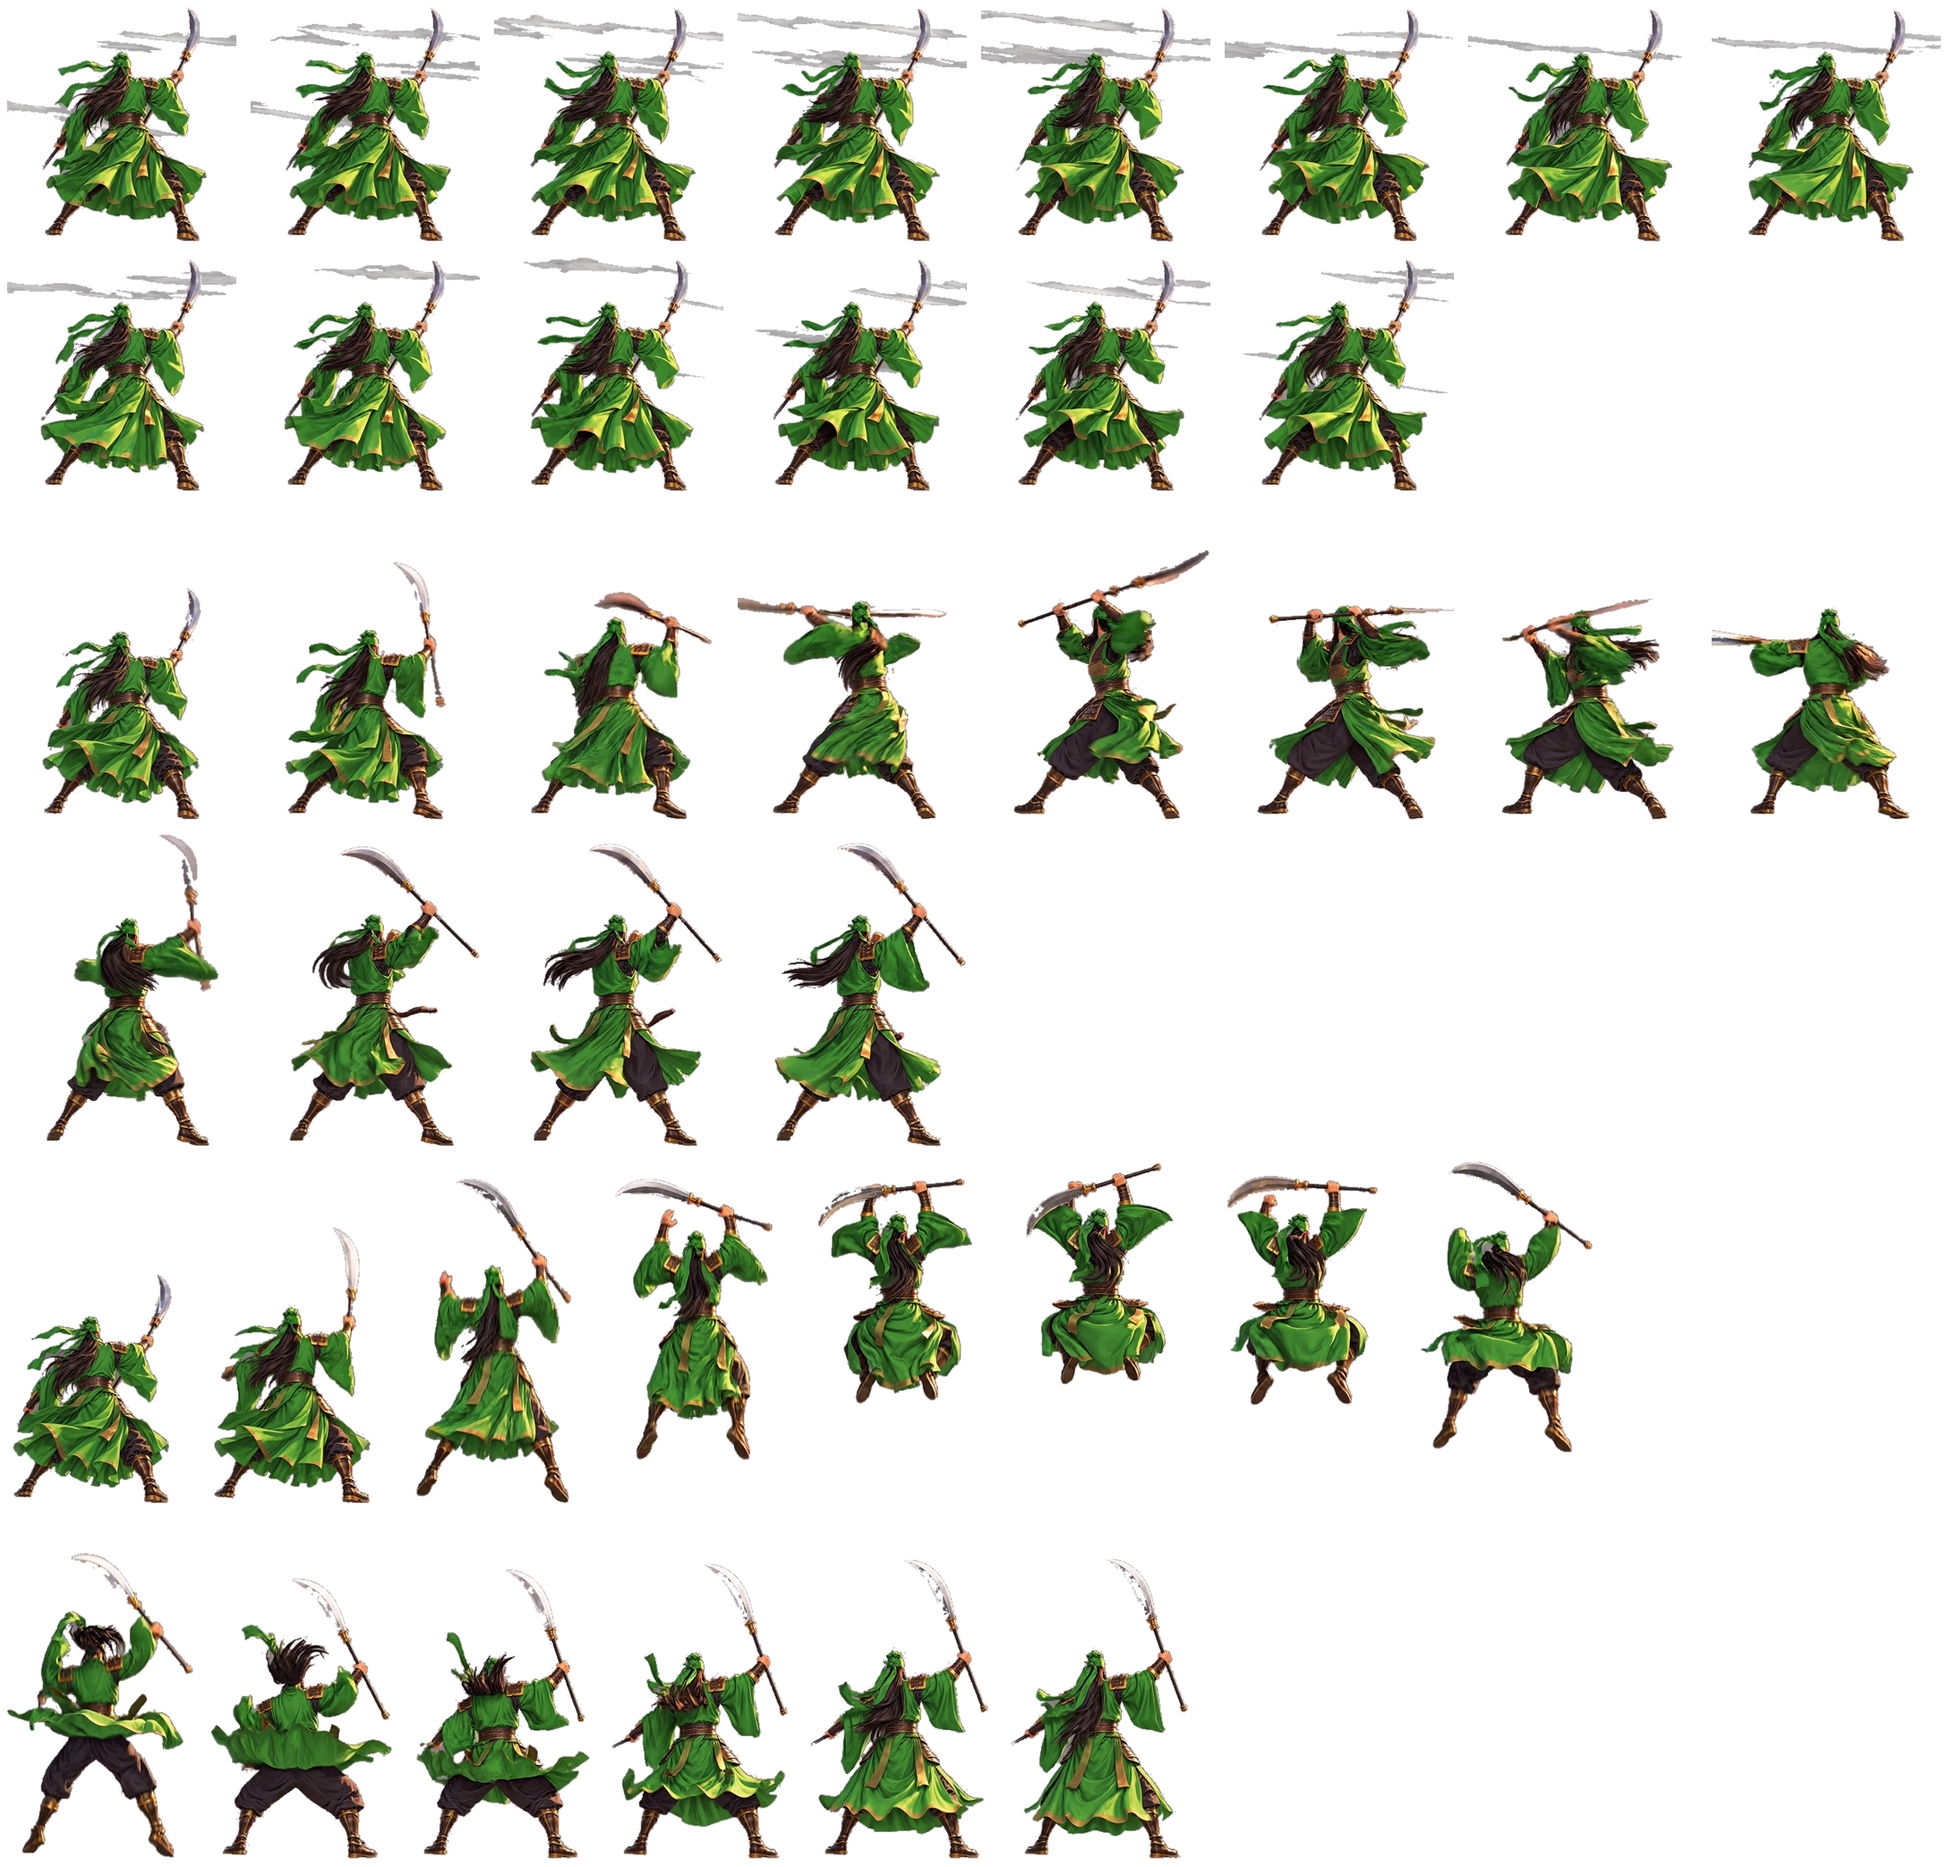
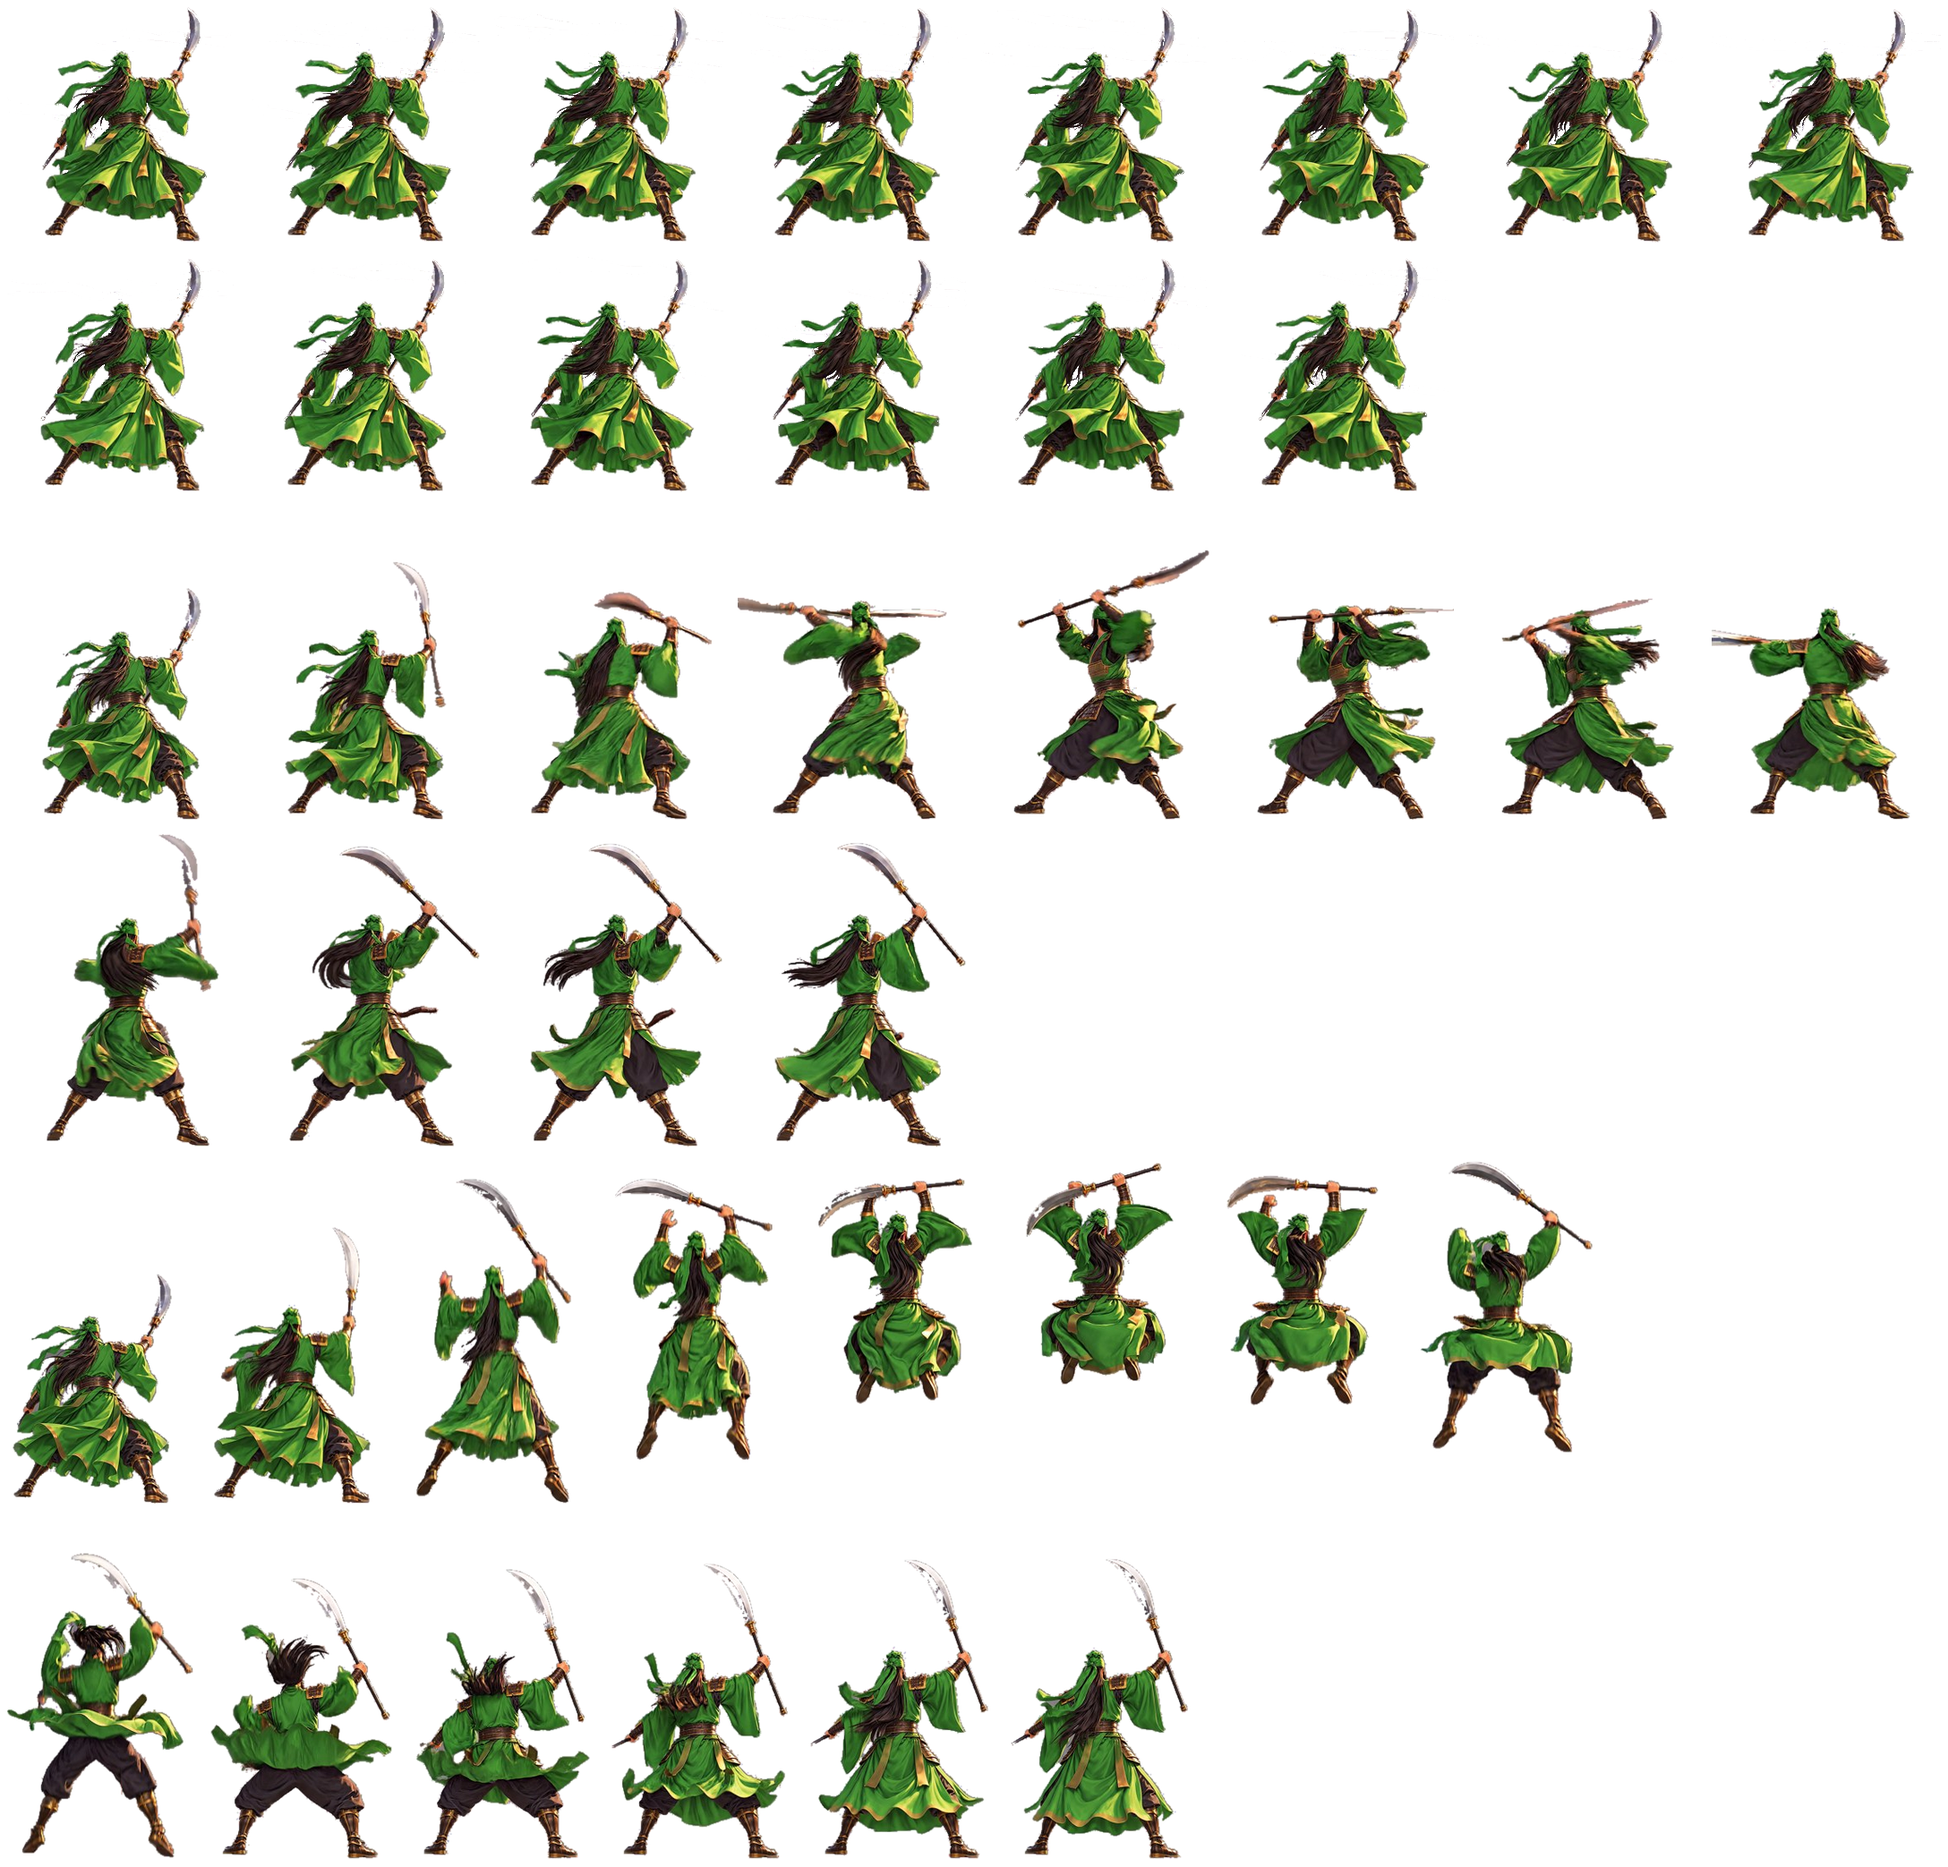
关羽待机帧去灰线改成做进图集，不再开局现画小画布（手机上可能画成空白让关羽看不见）

diff --git a/原型/守关.html b/原型/守关.html
@@ -2747,30 +2747,6 @@ const TINT = { gong: 'hue-rotate(170deg) saturate(1.4)', xiliang: 'hue-rotate(-4
   huaxiong: 'hue-rotate(-40deg) saturate(1.4) brightness(.8)', lvbu: 'hue-rotate(250deg) saturate(1.6) brightness(1.05)', huzhen: 'hue-rotate(-35deg) brightness(.75)', lijue: 'hue-rotate(160deg) saturate(.8) brightness(.8)',
   /* 第二章：曹军蓝黑、袁术军金黄 */ cao: 'hue-rotate(185deg) saturate(.9) brightness(.85)', nu: 'hue-rotate(200deg) saturate(.7) brightness(.9)', hubao: 'grayscale(.7) brightness(.7) contrast(1.2)', huainan: 'hue-rotate(10deg) saturate(1.5) brightness(1.08)',
   xhd: 'hue-rotate(40deg) saturate(.9) brightness(.85)', dianwei: 'grayscale(.6) brightness(.72) contrast(1.15)', yuanj: 'hue-rotate(15deg) saturate(1.6) brightness(1.05)', jiling: 'hue-rotate(40deg) saturate(1.3) brightness(1.05)', zhangliao: 'hue-rotate(220deg) saturate(.8) brightness(.9)' };
-// 只处理关羽待机帧里的浅灰横线；动画、锚点和原图集保持不变。
-function makeCleanGuanIdle(image, sheet) {
-  const a = sheet.anims.idle, ref = sheet.anims.atk, [rx, ry, rw, rh] = ref.rects[0];
-  const guard = document.createElement('canvas'); guard.width = a.rects[0][2]; guard.height = a.rects[0][3];
-  const g = guard.getContext('2d', { willReadFrequently: true });
-  // 普攻首帧没有横线，借它的刀刃轮廓保护金属高光。
-  g.drawImage(image, rx, ry, rw, rh, a.anchor[0] - ref.anchor[0], a.anchor[1] - ref.anchor[1], rw, rh);
-  const protect = g.getImageData(0, 0, guard.width, guard.height).data;
-  return a.rects.map(([sx, sy, w, h]) => {
-    const c = document.createElement('canvas'); c.width = w; c.height = h;
-    const cx = c.getContext('2d', { willReadFrequently: true }); cx.drawImage(image, sx, sy, w, h, 0, 0, w, h);
-    const d = cx.getImageData(0, 0, w, h), pix = d.data;
-    for (let y = 0; y < Math.min(230, h); y++) for (let x = 0; x < w; x++) {
-      const i = (y * w + x) * 4, r = pix[i], g = pix[i + 1], b = pix[i + 2];
-      if (!pix[i + 3] || Math.max(r,g,b) < 105 || Math.max(r,g,b) - Math.min(r,g,b) > 20) continue;
-      let sword = false;
-      if (x >= 185 && x <= 235 && y < 83) for (let yy = Math.max(0,y-0); yy <= Math.min(h-1,y+0) && !sword; yy++) for (let xx = Math.max(0,x-0); xx <= Math.min(w-1,x+0); xx++) if (protect[(yy*w+xx)*4+3] > 48) { sword = true; break; }
-      if (!sword) pix[i + 3] = 0;
-    }
-    cx.putImageData(d, 0, 0); return c;
-  });
-}
-
-let GUAN_IDLE_CLEAN;
 // 10-30 用户：「玩到第三关似乎有些卡？」——桌面实测：图集一张三千多像素、解码后二三十 MB，几张轮流挤显存，被挤掉的下次画要重新上传（单次 20–50 毫秒）；
 // 调色（ctx.filter）还要每画一次滤整张。改成：这一关第一次画到的图集，按屏幕上实际要的大小缩小（小兵四成左右、敌将七成），连调色一起画进一张小画布，之后都贴它；
 // 换关时把上一关没用到的放掉。只管画面
@@ -2788,12 +2764,8 @@ function sheetImg(name) {
 function sheetPrune(li) { for (const [k, e] of Object.entries(SHEET_C)) if (e.lv !== SHEET_LV) { e.c.width = e.c.height = 0; delete SHEET_C[k]; } SHEET_LV = li; }
 function drawSheet(name, anim, f, x, y, k, alpha = 1) {
   const S = SHEETS[name], A = S.anims[anim], r = A.rects[clamp(Math.floor(f), 0, A.rects.length - 1)];
-  // 原图待机的灰色横线是在透明图集里，先缓存清理后的每一帧，保留原动作。
-  if (name === 'g_guan' && anim === 'idle') {
-    if (GUAN_IDLE_CLEAN === undefined) { try { GUAN_IDLE_CLEAN = makeCleanGuanIdle(IMG[name], S); } catch (_) { GUAN_IDLE_CLEAN = null; } }
-    const clean = GUAN_IDLE_CLEAN && GUAN_IDLE_CLEAN[clamp(Math.floor(f), 0, A.rects.length - 1)];
-    if (clean) { ctx.globalAlpha = alpha; ctx.drawImage(clean, x - A.anchor[0] * k, y - A.anchor[1] * k, r[2] * k, r[3] * k); ctx.globalAlpha = 1; return; }
-  }
+  // 11-11 用户：「青州解围，有时消失，但其实他的技能在，内存问题？」——关羽待机帧原来开局时现从图集里画进 14 张小画布、去掉灰横线再用（攻击、放招直接用图集）；
+  // 苹果手机内存紧时，从大图集往小画布里画可能画出空白，空白帧缓存下来，关羽站着就一直看不见、一出手又出现。去灰线改成直接做进 img/g_guan.png（同一算法在浏览器里算好写回图集），不再现画
   const f0 = ctx.filter, { c: im, s: q } = sheetImg(name); ctx.filter = 'none';
   ctx.globalAlpha = alpha; ctx.drawImage(im, r[0] * q, r[1] * q, r[2] * q, r[3] * q, x - A.anchor[0] * k, y - A.anchor[1] * k, r[2] * k, r[3] * k); ctx.globalAlpha = 1; ctx.filter = f0;
 }

diff --git a/设计/方案初稿.md b/设计/方案初稿.md
@@ -1200,3 +1200,10 @@
 - 同日用户：「不需要吧，你就用新画的就可以？」——不再把手贴回原图，两张「_五指」直接换成 ChatGPT 整张新出的图（整体和原图有细微差别）。新图里刘备、关羽的手和原图一样没被改，醒来那张刘备左手仍只看得见四根（图糊，不确定）。
 - 同日用户：「醒来那张再画」——把上一版五指图传回同一个 ChatGPT 对话，让它把刘备靠画面左边那只手画成清楚的五指、其余不变。新图里刘备两只手都是拇指加四指，关羽、张飞的手和上一版一样。`序章_醒来_五指.jpg` 换成这一版。
 - 同日用户：「换进游戏吧」——`原型/img/story_bolt.jpg`、`story_wake.jpg` 换成这两张五指图（缩到 720×1080，和原来一样大），替下的是 10-27 重画版（git 里留着）。用到它们的：序章桃园「轰——！」两句、醒来那一串对白，白门楼那句「一道雷劈在白门楼上」也用 story_bolt。图片带 `?t=` 防缓存，不用改代码。电脑上截了两场剧情的样子；手机上没看过；itch 包还没带上。
+
+### 11-11 关羽站着时有时看不见（用户：「好像刚有一关关羽消失了」→「青州解围，有时消失，但其实他的技能在，内存问题？」）
+
+- 出阵名单没问题：60 关里只有第 8 关「鞭打督邮」是张飞单人（剧情），其余都有关羽。
+- 推测的原因（没在真机上复现）：关羽待机帧的灰横线原来是开局时现做的——从三千多像素的大图集往 14 张小画布里画，再按像素去灰线，缓存起来一直用；攻击、放招直接用大图集。苹果手机内存紧时，大图解码数据可能被系统丢掉，这一刻往小画布里画会画出空白，空白帧被缓存，关羽站着就一直透明、一出手又出现，和用户看到的一致。
+- 改法：同一套去灰线算法在浏览器里算好，直接写回 `img/g_guan.png` 的待机 14 帧（只把那些像素的透明度清零），代码里删掉现做缓存（`makeCleanGuanIdle`、`GUAN_IDLE_CLEAN`），待机和攻击一样直接用图集。画面和原来一样（灰线照样去掉），手机上少 14 张画布。
+- 核对：电脑上第 4 关开局截图关羽正常站着；新旧图集待机帧对比灰线已去。bench 1–12 关 4 个种子和原版一字不差。手机上没复现过、也没验证修好；如果还消失，下次请截图并说打到第几波。itch 包还没带上。
